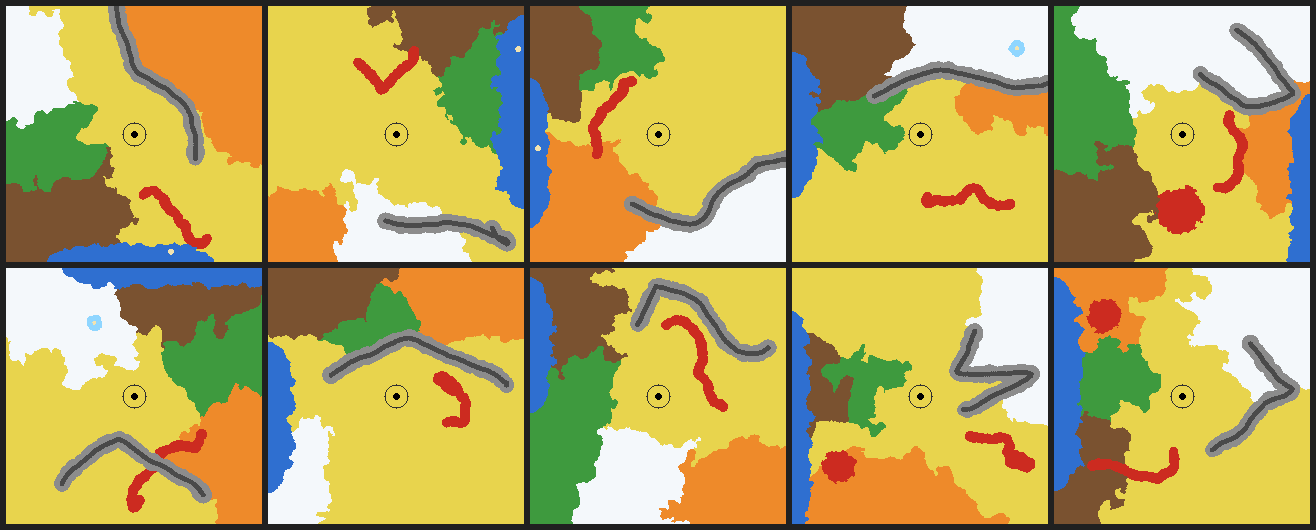
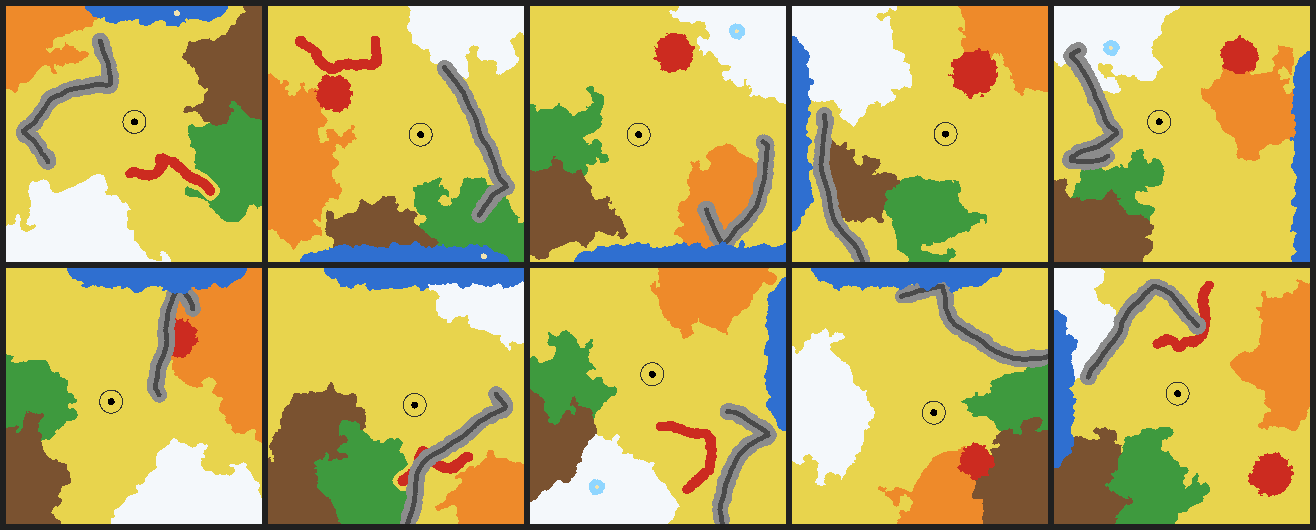
D'autre tests de masques. Des petits soucis encore.

diff --git a/pre-POCs/map_mask/README.md b/pre-POCs/map_mask/README.md
@@ -15,28 +15,30 @@ Can Godot generate, with nothing but its own `FastNoiseLite`, a random biome mas
 
 `mask.gd` builds a 256 × 256 mask in this order, each step writing only where nothing stands yet:
 
-1. The plains around the Monolith, at the exact centre.
+1. The plains around the Monolith, placed at random within 10 % of the centre on each axis, wide enough to hold its Outer Ring.
 2. The coast, a band along one map edge with noise-bent depth and tapered ends.
 3. The mountain chain, a random walk steered away from the centre and from every edge but the one it may start from, with its spine marked impassable.
 4. The volcanic ground: a round volcano, a winding rift, or both.
-5. Plains, forest, marsh, glacier and desert share the rest as zones around seed points, with borders bent by two scales of noise; forest and glacier are refused near volcanic ground.
-6. Stray fragments join the zone around them, so each biome is one zone.
+5. Plains, forest, marsh, glacier and desert share the rest as zones around one seed point each, the plains seed being the Monolith, with borders bent by two scales of noise; forest and glacier are refused near volcanic ground.
+6. Stray fragments join the zone around them, so each biome is one zone; plains pieces separated only by the mountain chain are kept.
 7. Every rule is checked, including that all walkable ground is reachable from the Monolith; a mask breaking one is thrown away and the next seed is tried.
 8. Half the time, Frostfang Caverns is assumed drawn: an island off the coast, or a lake with an island inside the glacier.
 
 ## Results
 
-Measured on 2026-11-07 with Godot 4.7.2 headless; `results/sheet.png` holds the ten masks, `results/run.log` the output.
+Measured on 2026-11-07 with Godot 4.7.2 headless, after the second set of rules; `results/sheet.png` holds the ten masks, `results/run.txt` the output.
 
-| Measure                     | Result                                                       |
-| --------------------------- | ------------------------------------------------------------ |
-| Valid masks                 | 10 of 10                                                     |
-| Masks generated to get them | 43, so about 4 per valid mask                                |
-| Most common rejection       | Plains split in two by the mountain chain, 20 times          |
-| Time for the whole run      | About 3 s                                                    |
-| Same seeds run twice        | Identical images                                             |
-| Plains share                | 26 % to 54 %; the largest zone every time                    |
-| Frostfang                   | 3 islands off the coast, 2 lakes in the glacier, 5 not drawn |
+| Measure                     | Result                                                                  |
+| --------------------------- | ----------------------------------------------------------------------- |
+| Valid masks                 | 10 of 10                                                                |
+| Masks generated to get them | 42, so about 4 per valid mask                                           |
+| Rejections                  | spread over every rule; the most common, a desert split in two, 6 times |
+| Time for the whole run      | About 3 s                                                               |
+| Same seeds run twice        | Identical images                                                        |
+| Plains share                | 50 % to 56 %; the largest zone every time                               |
+| Plains cut by the chain     | 4 masks of 10, into 2 or 3 pieces, all walkable from one another        |
+| Monolith position           | 41 % to 60 % of the width, 41 % to 56 % of the height                   |
+| Frostfang                   | 2 islands off the coast, 3 lakes in the glacier, 5 not drawn            |
 
 The mask colours follow `docs/WORLD_MAP.md`; the dark grey line in each mountain chain is its spine, light blue is a Frostfang lake, sand is a Frostfang island, and the black dot and ring are the Monolith and its Outer Ring.
 
@@ -45,6 +47,7 @@ The mask colours follow `docs/WORLD_MAP.md`; the dark grey line in each mountain
 The rules are cheap to satisfy by generating and checking: a valid mask costs a fraction of a second.
 Generation is deterministic for a given seed, so a world can be rebuilt from its seed alone.
 Only the mask is covered here; the terrain pass, decor included, is the next step.
+Some masks leave a zone as a thin strip between two others; a minimum zone width is the next rule to add.
 
 ## Run it
 

diff --git a/docs/WORLD_MAP.md b/docs/WORLD_MAP.md
@@ -5,6 +5,7 @@ How a world's map is laid out: a **mask** of biomes first, then the terrain gene
 - [World map — Wizards Towers](#world-map--wizards-towers)
   - [How to read this document](#how-to-read-this-document)
   - [The mask](#the-mask)
+  - [Scale](#scale)
   - [Biomes](#biomes)
   - [Placement](#placement)
   - [The Frostfang exception](#the-frostfang-exception)
@@ -22,18 +23,37 @@ A first pre-POC generating masks is in `pre-POCs/map_mask/`.
 ## The mask
 
 **Each biome appears exactly once**, as a single zone.
-**The Monolith always stands at the exact centre**, in the plains, with its Outer Ring around it.
+One exception: the mountain chain may cut the plains in pieces, as long as the pieces are walkable from one another through the other zones.
+
+**The Monolith stands near the centre**, anywhere within 10 % of it on each axis, in the plains.
+Its Outer Ring stands entirely in the plains too.
 
 **Players see the mask before they see the world.**
 The queue screen shows a far minimap of the world; that minimap is the mask, so players know the shape of the land while they wait, and discover the real terrain once inside.
 
 Borders between zones are bent by noise, so no zone has a straight edge.
 
+## Scale
+
+Provisional, until the art style fixes the size of a tile in pixels.
+
+| Measure                  | Value                                               |
+| ------------------------ | --------------------------------------------------- |
+| Normal walk, `speed` 100 | 4 tiles a second                                    |
+| Map side                 | 2 560 tiles, about 10 minutes 40 seconds of walking |
+| Map corner to corner     | about 15 minutes                                    |
+| Mask                     | 256 × 256 points, each covering 10 × 10 tiles       |
+| Streaming chunk          | 64 × 64 tiles, so 40 × 40 chunks for the whole map  |
+
+The ten-minute width is the one settled in the design questions, sized for fifty wizards.
+Four tiles a second is a usual walk in top-down pixel-art games, quick enough that a 10 to 20 second fight can move around.
+At 16 pixels a tile, `speed` 100 is 64 pixels a second and the map is 40 960 pixels wide.
+
 ## Biomes
 
 | Biome    | Mask colour | Rule                                                                                                          |
 | -------- | ----------- | ------------------------------------------------------------------------------------------------------------- |
-| Plains   | yellow      | The largest zone, and the one holding the Monolith.                                                           |
+| Plains   | yellow      | The largest zone, and the one holding the Monolith; the only one the mountain chain may cut.                  |
 | Forest   | green       | Always borders the plains. Never touches volcanic ground.                                                     |
 | Marsh    | brown       | Always borders the forest.                                                                                    |
 | Glacier  | white       | Never touches volcanic ground.                                                                                |
@@ -69,6 +89,7 @@ The dungeon's entrance stands on that island, and the way to it freezes over in 
 
 ## Open questions
 
-- ⬜ **The size of a map**, and how many terrain tiles one mask point covers.
+- ⬜ **The size of a tile in pixels**, fixed with the art style.
+- ⬜ **A minimum width for every zone**, so no biome ends up as a thin strip between two others.
 - ⬜ **The theme of every dungeon and world boss**, assigned to a biome; the table above is a first pass.
 - ⬜ **Hand-painted masks**: whether some worlds use a curated mask instead of a generated one.

diff --git a/docs/ARTIFACTS.md b/docs/ARTIFACTS.md
@@ -177,7 +177,7 @@ Each entry below still occupies one of the two ordered Effect slots, the same as
 | **Level's Grace**                | normal   |      3 | Against critter and common enemies, the caster takes 10% more damage and deals 10% less; against elite and champion enemies, takes 10% less and deals 10% more. No change against veterans, echoes, wizards and world bosses. | A hunter of strong enemies that pays for it while farming.                        |
 | **The Scholar's Shortcut**       | normal   |      3 | Grants a small amount of XP on landing a hit against another wizard, independent of whether it kills them.                                                                                                                    | Trades easy enemy experience for harder-won wizard experience.                    |
 | **The World Boss's Scar**        | enhanced |      4 | Against a world boss specifically, ignores a portion of magic defence no ordinary Element can touch.                                                                                                                          | A specialist's rune for the single hardest fight in the open world.               |
-| **The Maze-Breaker**             | powerful |      5 | Inside a maze, a hit triggers a puzzle's solved state directly, once per visit, as if the correct rune had been applied.                                                                                                      | One skipped puzzle per visit.                                                     |
+| **The Maze-Breaker**             | powerful |      5 | Inside a maze, a hit triggers a puzzle's solved state directly, once per visit, as if the correct rune had been applied.                                                                                                      | One skipped puzzle per visit, and the maze's card is not earned.                  |
 | **The Treasure Hunter's Grasp**  | normal   |      2 | Opening a treasure with this Effect slotted guarantees at least a common-rarity rune drop.                                                                                                                                    | A guaranteed floor on treasure quality.                                           |
 | **The Permanent Record**         | enhanced |      4 | On the caster's death, adds a small bonus to the score banked at that moment.                                                                                                                                                 | Score banks at death, so it pays under any ending.                                |
 | **Truce-Breaker's Mark**         | normal   |      3 | Deals bonus damage against any wizard currently flying a truce flag.                                                                                                                                                          | The answer to a wizard who chose to sit behind a truce flag.                      |

diff --git a/docs/GLOSSARY.md b/docs/GLOSSARY.md
@@ -68,7 +68,7 @@ A level-1 wizard with no talents is the baseline.
 | **health**        | Damage a combatant absorbs before dying.                                                                                                            | `health`        | 100      | ✅      |
 | **power**         | Offensive strength. **One** stat whether the combatant strikes in melee or at range.                                                                | `power`         | 10       | ✅      |
 | **magic defence** | Damage reduction. Spelled the British way, with a `c`.                                                                                              | `magic_defence` | 10       | ✅      |
-| **speed**         | Movement rate, where 100 is a normal walk.                                                                                                          | `speed`         | 100      | ✅      |
+| **speed**         | Movement rate, where 100 is a normal walk: **4 tiles a second**.                                                                                    | `speed`         | 100      | ✅      |
 | **luck**          | Chance of a favourable roll: a crit, a second Spark strike, a better drop.                                                                          | `luck`          | 5        | ✅      |
 | **attack type**   | Descriptive only, `melee` or `magic`. Never a second power stat.                                                                                    | `attack_type`   | —        | ✅      |
 

diff --git a/docs/ACHIEVEMENTS.md b/docs/ACHIEVEMENTS.md
@@ -14,11 +14,12 @@ It makes a talent purchasable, and RP buy it; see `CARDS.md` and `GLOSSARY.md`, 
 
 ## What an achievement unlocks
 
-| Unlock                              | Needs                    |
-| ----------------------------------- | ------------------------ |
-| A card for a wizard type's deck     | An achievement, then RP. |
-| The Magus, the Arcanist, the Oracle | An achievement, then RP. |
-| A weapon that may drop during runs  | RP.                      |
+| Unlock                              | Needs                                           |
+| ----------------------------------- | ----------------------------------------------- |
+| A card for a wizard type's deck     | An achievement, then RP.                        |
+| The Magus, the Arcanist, the Oracle | An achievement, then RP.                        |
+| A weapon that may drop during runs  | RP.                                             |
+| A dungeon's or a maze's card        | Completing it for the first time; nothing else. |
 
 The Sorcerer needs nothing: every player starts with it.
 

diff --git a/docs/CARDS.md b/docs/CARDS.md
@@ -36,6 +36,8 @@ The card catalogue itself is not designed yet; this document sets the rules ever
 
 - **Keepsake Wisp.** Taking it summons the Keepsake Wisp for the rest of the run: a spirit carrying nothing mechanical, which greets the wizard by the name of their previous life. See `SPIRITS_GUARDIANS.md`.
 - **Dungeon and maze cards.** Never drawn: each one adds **one vote** for its dungeon or maze in a draw, without guaranteeing it. A dungeon card counts when the world draws its 20 dungeons, a maze card each time a season replaces its mazes; the votes of every deck in the world's queue add up.
+  A player earns a dungeon's card the first time they complete it, and a maze's card the first time they solve it.
+  A maze marked solved by an item, such as the Artifact The Maze-Breaker, does not earn its card.
 
 **World boss summons.**
 A summon is never offered: when drawn, it is played on the spot, it leaves the run deck, and another card is drawn in its place.

diff --git a/pre-POCs/postgrest/README.md b/pre-POCs/postgrest/README.md
@@ -25,7 +25,7 @@ Only the functions in the `api` schema are callable, and each value-moving write
 
 ## Results
 
-Measured on 2026-11-07, twice, with identical results; the raw output of the second run is in `results.log`.
+Measured on 2026-11-07, twice, with identical results; the raw output of the second run is in `results.txt`.
 
 | Case | What it checks                                      | Result                                                         |
 | ---- | --------------------------------------------------- | -------------------------------------------------------------- |
